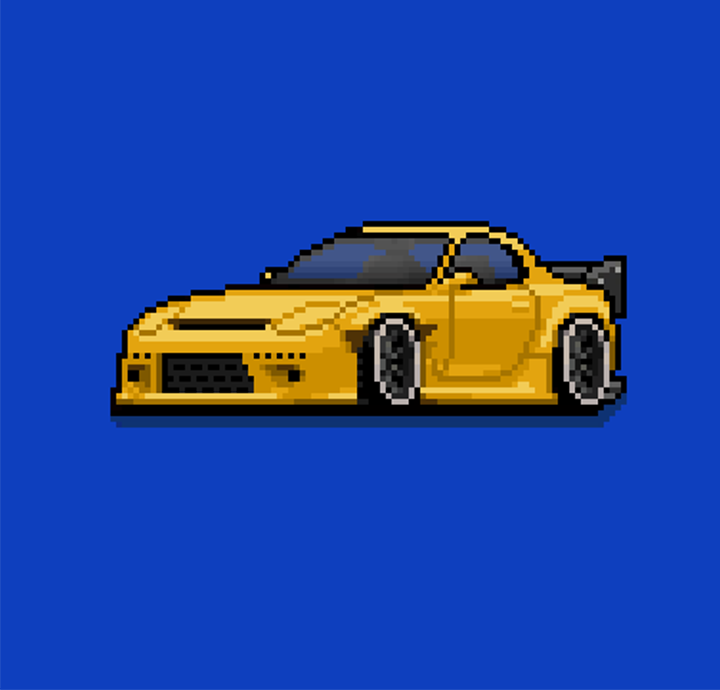
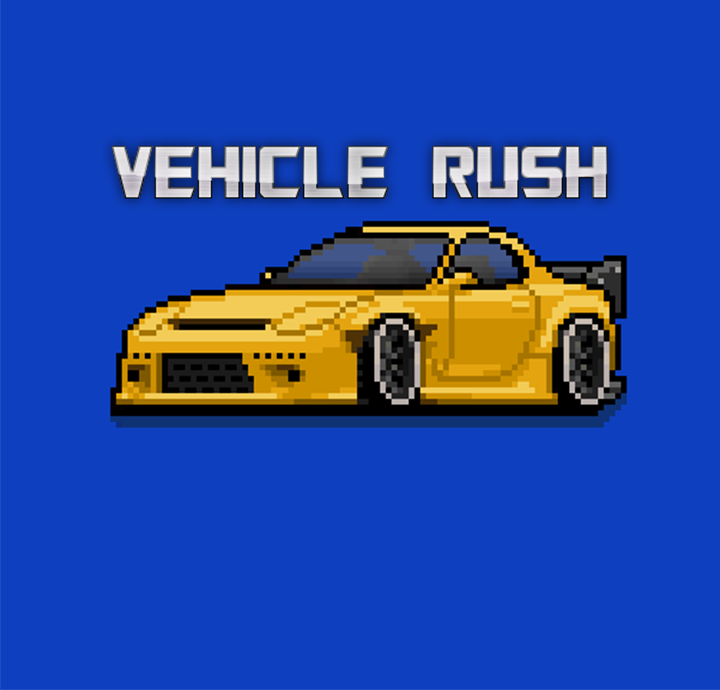
edit

Changed region(s): [[0.1528, 0.1826, 0.55, 0.3043], [0.5806, 0.1826, 0.8556, 0.3043]]

diff --git a/src/game/GameLauncher.java b/src/game/GameLauncher.java
@@ -6,12 +6,23 @@ import java.awt.image.BufferedImage;
 
 import javax.swing.JFrame;
 import javax.swing.JOptionPane;
+import java.net.URL;
+import javax.imageio.ImageIO;
 
 
 public class GameLauncher extends JFrame {
 	private  BufferedImage img1;
 	public GameLauncher()
 	{
+		try{
+			//logo app
+			URL icon=this.getClass().getResource("/res/menu.png");
+			img1=ImageIO.read(icon);
+			}
+			catch(Exception e)
+			{
+				e.printStackTrace();
+			}
 
 		JFrame f=new JFrame("Vehicle RUSH");
 		f.setSize(720, 690);
@@ -37,6 +48,8 @@ public class GameLauncher extends JFrame {
 					f.setDefaultCloseOperation(JFrame.DO_NOTHING_ON_CLOSE);
 			}
 				});
+
+
 	}
 	
 	public static void main(String args[])
